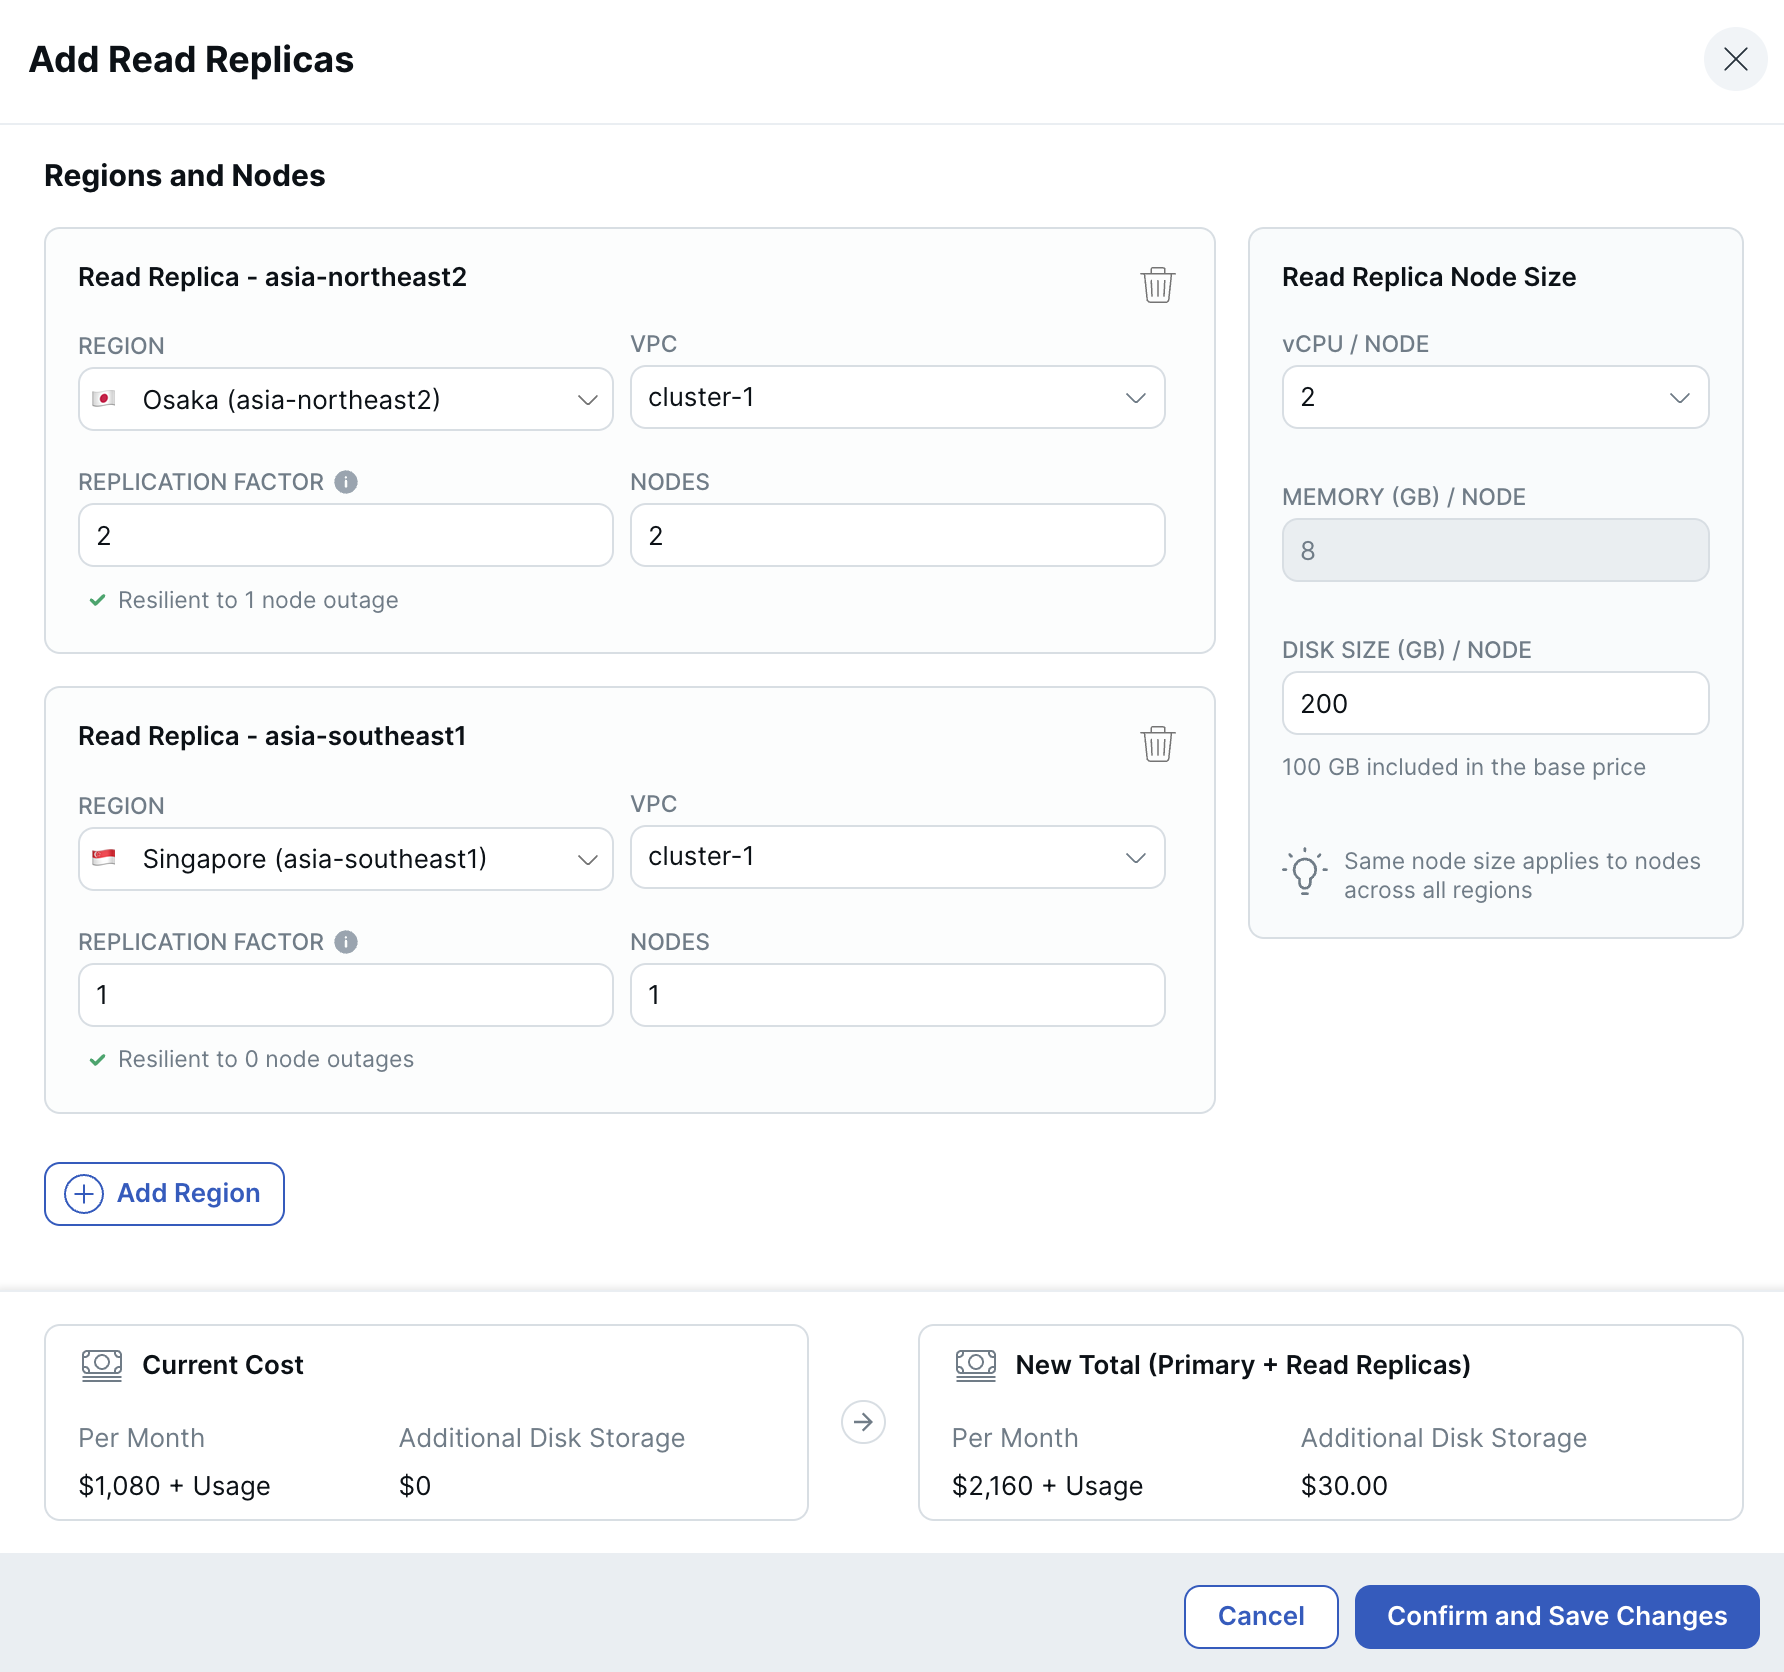
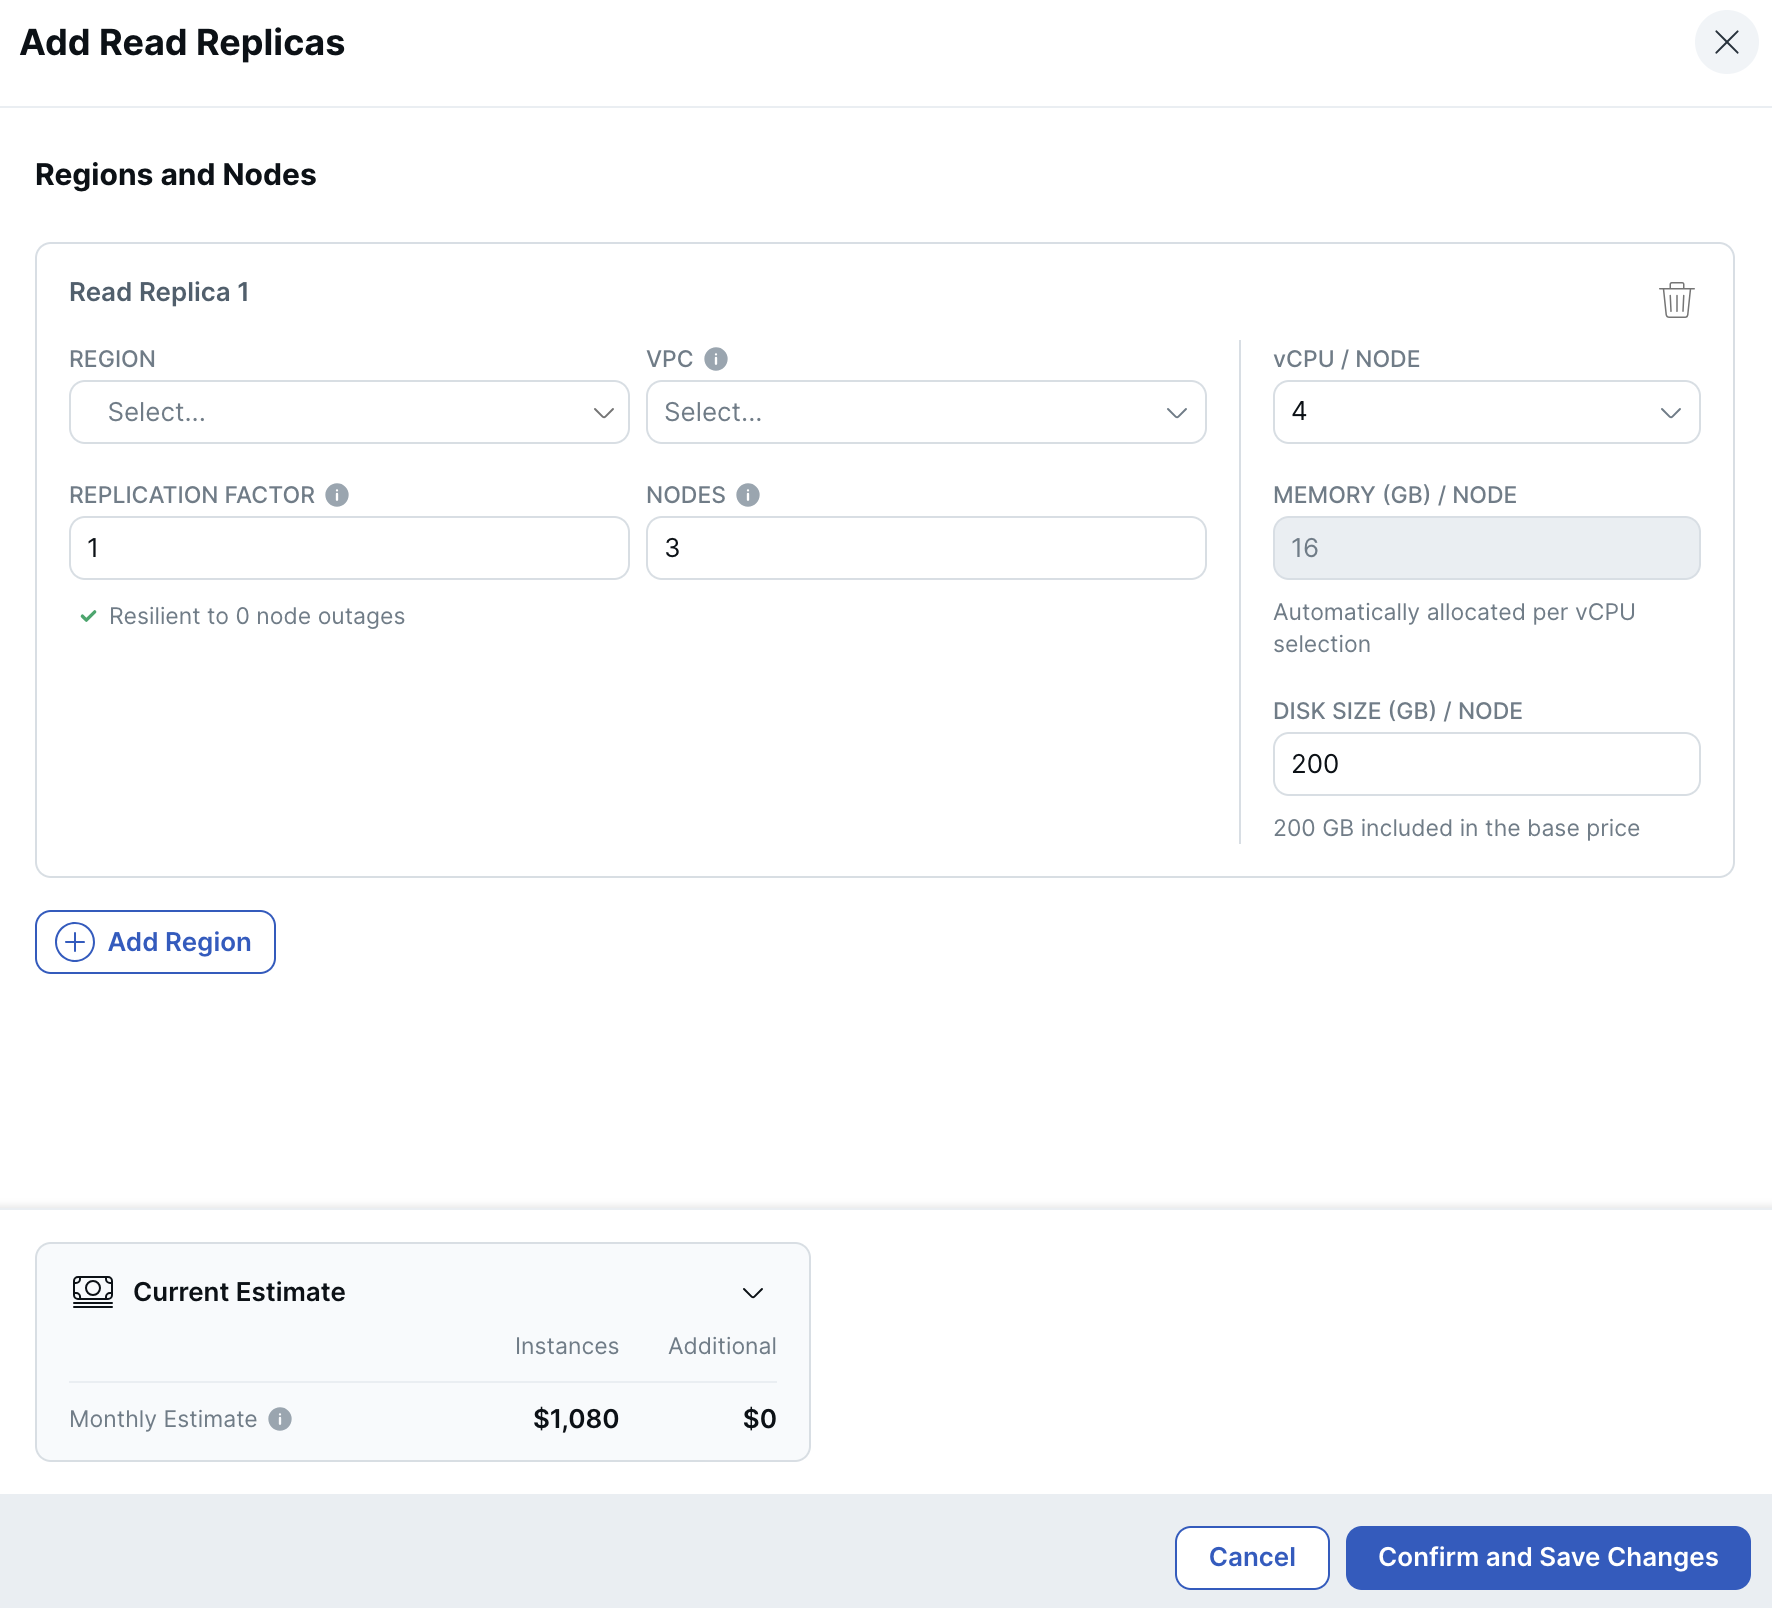
Asymmetric nodes for read replicas

diff --git a/docs/content/preview/yugabyte-cloud/cloud-clusters/managed-read-replica.md b/docs/content/preview/yugabyte-cloud/cloud-clusters/managed-read-replica.md
@@ -39,7 +39,6 @@ Read replicas require the following:
 ## Limitations
 
 - Partition-by-region clusters do not support read replicas.
-- Read replicas currently need to use the same instance type and node size for all read replica regions.
 - If another [locking cluster operation](../#locking-operations) is already running, you must wait for it to finish.
 
 ## Add or edit read replicas
@@ -62,11 +61,17 @@ To add or edit read-replicas:
 
     **Nodes** - Choose the number of nodes to deploy in the region. The number of nodes can't be less than the replication factor.
 
-1. To add a read replica, click **Add Region**. To delete a read replica, click the Trash icon.
+    **vCPU/Node**: Enter the number of virtual CPUs per node.
 
-1. Enter the vCPUs per node, disk size in GB per node, and disk input output (I/O) operations per second (IOPS) per node (AWS only) for the read replicas. Node size is the same for all replicas. Memory per node depends on the [instance type](../../cloud-basics/create-clusters-overview/#instance-types) available for the selected regions.
+    **Disk size/Node**: Enter the disk size per node in GB.
+
+    **Disk IOPS/Node** (AWS only): Enter the disk input output (I/O) operations per second (IOPS) per node. The node throughput will be scaled according to this IOPS value.
+
+    Memory per node depends on the [instance type](../../cloud-basics/create-clusters-overview/#instance-types) available for the selected region.
 
     Monthly total costs for the cluster are based on the number of vCPUs and estimated automatically. **+ Usage** refers to any potential overages from exceeding the free allowances for disk storage, backup storage, and data transfer. For information on how clusters are costed, refer to [Cluster costs](../../cloud-admin/cloud-billing-costs/).
+
+1. To add a read replica, click **Add Region**. To delete a read replica, click the Trash icon.
 
 1. Click **Confirm and Save Changes** when you are done.
 
